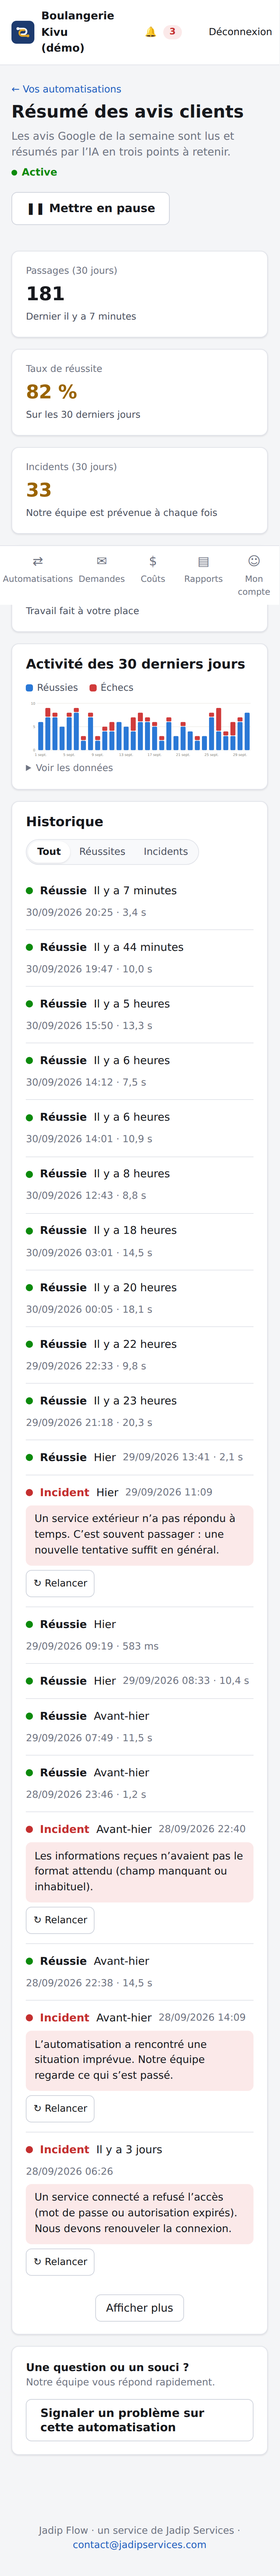
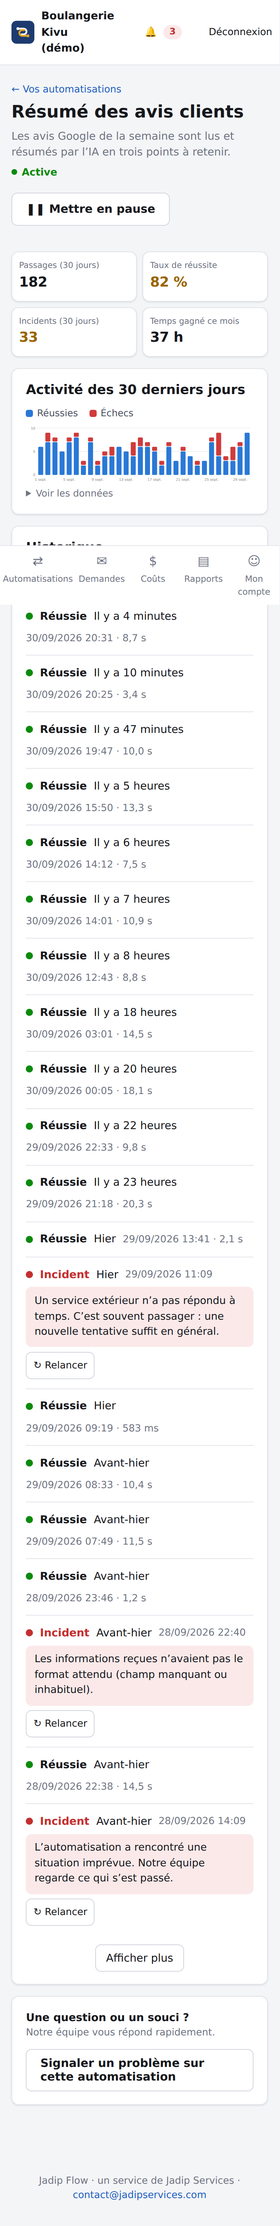
Portail client : pages finalisées, messages d'erreur en français simple pour les clients, en-tête mobile allégé
Claude-Session: https://claude.ai/code/session_01Fv2iGwrdpaSWPikixj69Pb

Changed region(s): [[0.0307, 0.0, 0.9207, 0.999], [0.6445, 0.0312, 0.8593, 0.0624]]

diff --git a/server/src/services/actions.ts b/server/src/services/actions.ts
@@ -40,7 +40,11 @@ export async function setWorkflowActive(actor: Actor, workflowId: string, active
     await logAction(actor, { clientId: wf.client_id, workflowId, action, result: 'refused', message: msg });
     throw forbidden(msg);
   };
-  if (!active && wf.is_locked) await refuse('Ce workflow est marqué critique : il ne peut pas être désactivé depuis le portail.');
+  if (!active && wf.is_locked) {
+    await refuse(actor.role === 'client'
+      ? 'Cette automatisation est gérée par Jadip Services et ne peut pas être désactivée depuis votre espace. Faites-nous une demande si besoin.'
+      : 'Ce workflow est marqué critique : il ne peut pas être désactivé depuis le portail.');
+  }
   if (actor.role === 'client') {
     if (!wf.can_toggle || !wf.client_can_toggle) await refuse('Vous n’êtes pas autorisé à modifier l’état de cette automatisation.');
   }
@@ -52,7 +56,7 @@ export async function setWorkflowActive(actor: Actor, workflowId: string, active
     else await n8n.deactivate(wf.n8n_id);
   } catch (e: any) {
     await logAction(actor, { clientId: wf.client_id, workflowId, action, result: 'error', message: e.message });
-    throw new HttpError(502, `n8n a refusé l’opération : ${e.message}`, 'n8n_error');
+    throw new HttpError(502, actor.role === 'client' ? 'L’opération n’a pas pu aboutir pour le moment. Réessayez dans quelques minutes ; notre équipe est prévenue en cas de problème persistant.' : `n8n a refusé l’opération : ${e.message}`, 'n8n_error');
   }
   await q(`UPDATE workflows SET active=$2, paused_until=$3, updated_at=now() WHERE id=$1`, [workflowId, active, active ? null : opts.pauseUntil ?? null]);
   await q(`INSERT INTO workflow_events(workflow_id, kind, detail) VALUES ($1,$2,$3)`,
@@ -83,11 +87,11 @@ export async function retryExecution(actor: Actor, executionId: number) {
     r = await clientFor(wf).retry(ex.n8n_execution_id);
   } catch (e: any) {
     await logAction(actor, { clientId: wf.client_id, workflowId: wf.id, action: 'retry', result: 'error', message: e.message });
-    throw new HttpError(502, `n8n a refusé la relance : ${e.message}`, 'n8n_error');
+    throw new HttpError(502, actor.role === 'client' ? 'La relance n’a pas pu aboutir pour le moment. Réessayez plus tard ou faites-nous une demande.' : `n8n a refusé la relance : ${e.message}`, 'n8n_error');
   }
   if (!r.supported) {
     await logAction(actor, { clientId: wf.client_id, workflowId: wf.id, action: 'retry', result: 'error', message: 'Relance non prise en charge par cette version de n8n' });
-    throw new HttpError(501, 'Cette version de n8n ne permet pas la relance via l’API. Relancez depuis n8n.', 'retry_unsupported');
+    throw new HttpError(501, actor.role === 'client' ? 'La relance automatique n’est pas disponible pour cette automatisation. Faites-nous une demande : nous la relancerons pour vous.' : 'Cette version de n8n ne permet pas la relance via l’API. Relancez depuis n8n.', 'retry_unsupported');
   }
   await logAction(actor, { clientId: wf.client_id, workflowId: wf.id, action: 'retry', result: 'ok', message: `Exécution ${ex.n8n_execution_id} relancée`, detail: { newExecutionId: r.newExecutionId } });
   await notifyClientAction(actor, wf, 'a relancé une exécution de');

diff --git a/web/src/pages/portal/shared.tsx b/web/src/pages/portal/shared.tsx
@@ -22,6 +22,16 @@ export function fmtUntil(d: string) {
   return `${day} à ${time}`;
 }
 
+/** « jusqu’à 21:34 », « jusqu’à demain 21:34 », « jusqu’au mercredi 7 octobre à 21:34 ». */
+export function untilPhrase(d: string) {
+  const day = (x: Date) => new Intl.DateTimeFormat('fr-CA', { timeZone: TZ }).format(x);
+  const date = new Date(d);
+  const time = new Intl.DateTimeFormat('fr-FR', { timeZone: TZ, hour: '2-digit', minute: '2-digit' }).format(date);
+  if (day(date) === day(new Date())) return `jusqu’à ${time}`;
+  if (day(date) === day(new Date(Date.now() + 86400000))) return `jusqu’à demain ${time}`;
+  return `jusqu’au ${fmtUntil(d)}`;
+}
+
 export const cap = (s: string) => (s ? s[0].toUpperCase() + s.slice(1) : s);
 
 export const rateTone = (r: number | null | undefined): 'good' | 'warn' | 'bad' | undefined =>
@@ -47,7 +57,7 @@ export function fmtSize(bytes: number) {
 /** Libellé de la phrase d'état (active, en pause jusqu'au…, désactivée). */
 export function stateOf(w: Pick<WfCard, 'active' | 'paused_until'>): { cls: 'on' | 'paused' | 'off'; label: string } {
   if (w.active) return { cls: 'on', label: 'Active' };
-  if (w.paused_until && new Date(w.paused_until).getTime() > Date.now()) return { cls: 'paused', label: `En pause jusqu’au ${fmtUntil(w.paused_until)}` };
+  if (w.paused_until && new Date(w.paused_until).getTime() > Date.now()) return { cls: 'paused', label: `En pause ${untilPhrase(w.paused_until)}` };
   return { cls: 'off', label: 'Désactivée' };
 }
 

diff --git a/server/src/demo.ts b/server/src/demo.ts
@@ -76,7 +76,8 @@ async function main() {
     const t = await one<any>(`INSERT INTO tickets(client_id, workflow_id, created_by, kind, subject, status) VALUES ($1,$2,$3,'change','Ajouter la quantité commandée dans le tableau','in_progress') RETURNING id`, [kivu.id, wf.id, aline.id]);
     await q(`INSERT INTO ticket_messages(ticket_id, author_id, author_role, body) VALUES ($1,$2,'client','Bonjour, pourriez-vous ajouter une colonne « quantité » dans le tableau des commandes ? Merci !')`, [t.id, aline.id]);
     await q(`INSERT INTO ticket_messages(ticket_id, author_role, body) VALUES ($1,'admin','Bien reçu, c’est prévu pour jeudi. Nous vous prévenons dès que c’est en place.')`, [t.id]);
-    await q(`INSERT INTO tickets(client_id, created_by, kind, subject) VALUES ($1,$2,'question','Peut-on recevoir les commandes aussi par SMS ?')`, [kivu.id, aline.id]);
+    const t2 = await one<any>(`INSERT INTO tickets(client_id, created_by, kind, subject) VALUES ($1,$2,'question','Peut-on recevoir les commandes aussi par SMS ?') RETURNING id`, [kivu.id, aline.id]);
+    await q(`INSERT INTO ticket_messages(ticket_id, author_id, author_role, body) VALUES ($1,$2,'client','Certains clients n’ont pas WhatsApp. Est-il possible de prendre leurs commandes par SMS ?')`, [t2.id, aline.id]);
   }
   await evaluatePeriodic();
   for (const c of [kivu, lum]) {

diff --git a/web/src/pages/portal/Home.tsx b/web/src/pages/portal/Home.tsx
@@ -30,7 +30,7 @@ export default function Home() {
                   hint={d.summary.active === d.summary.total ? 'Toutes sont en marche' : `${d.summary.total - d.summary.active} à l’arrêt`} />
                 <Stat label="Temps gagné ce mois" value={fmtDuration(d.summary.minutes_saved_month)}
                   hint={d.summary.minutes_saved_month >= 480 ? `Soit environ ${fmtNum(Math.round(d.summary.minutes_saved_month / 480))} journées de travail` : 'Temps que vous n’avez pas passé à le faire à la main'} />
-                <Stat label="Taux de réussite (30 jours)" value={fmtPct(d.summary.success_rate_30d)} tone={rateTone(d.summary.success_rate_30d)}
+                <Stat label="Réussite sur 30 jours" value={fmtPct(d.summary.success_rate_30d)} tone={rateTone(d.summary.success_rate_30d)}
                   hint={d.summary.executions_30d ? `Sur ${fmtNum(d.summary.executions_30d)} passages` : 'Aucun passage sur la période'} />
               </div>
             )}

diff --git a/web/src/components/layouts.tsx b/web/src/components/layouts.tsx
@@ -115,12 +115,12 @@ export function PortalLayout() {
         <div className="inner">
           <div className="brandmark">
             {user?.client_logo ? <img src={`/api/clients/${user.client_id}/logo`} alt={user.client_name ?? ''} /> : <img src="/brand/icon.svg" alt="" />}
-            <span>{user?.client_name ?? brand?.productName}</span>
+            <span className="brandname">{user?.client_name ?? brand?.productName}</span>
           </div>
           <nav className="portal-nav">{nav(false)}</nav>
           <span className="grow" style={{ flex: 1 }} />
           <Notifications />
-          <button className="btn ghost small" onClick={logout}>Déconnexion</button>
+          <button className="btn ghost small hide-mobile" onClick={logout}>Déconnexion</button>
         </div>
       </header>
       <main className="portal-main"><Outlet /></main>

diff --git a/server/src/routes/client/portal.ts b/server/src/routes/client/portal.ts
@@ -23,7 +23,7 @@ const STATUS_LABEL: Record<string, string> = { success: 'Réussie', error: 'Inci
 function cardOf(w: any, perms: { can_toggle: boolean; can_retry: boolean }) {
   return {
     id: w.id, name: w.display_name || w.name, description: w.description, active: w.active, paused_until: w.paused_until,
-    last_execution_at: w.last_execution_at, last_status: w.last_status ? STATUS_LABEL[w.last_status] ?? w.last_status : null,
+    last_execution_at: w.last_execution_at, last_status: w.last_status ? STATUS_LABEL[w.last_status] ?? w.last_status : null, last_status_code: w.last_status ?? null,
     success_rate_30d: w.success_rate_30d, executions_30d: w.exec_30d, failures_30d: w.fail_30d,
     minutes_saved_month: w.minutes_saved_month, locked: w.is_locked,
     can_toggle: perms.can_toggle && w.client_can_toggle && !(w.is_locked && w.active),

diff --git a/web/src/pages/Account.tsx b/web/src/pages/Account.tsx
@@ -7,14 +7,14 @@ import { Card, Modal, PageHead, useAction, useUi } from '../components/ui';
 
 export default function Account() {
   useTitle('Mon compte');
-  const { user, setUser } = useAuth();
+  const { user, setUser, logout } = useAuth();
   const { run, busy } = useAction();
   if (!user) return null;
   const isAdmin = user.role === 'admin';
   const save = (patch: Record<string, unknown>) => run(async () => setUser((await api.patch('/api/me', patch)).user), 'Préférences enregistrées.');
   return (
     <div className="stack">
-      <PageHead title="Mon compte" sub={user.email} />
+      <PageHead title="Mon compte" sub={user.email} actions={<button className="btn" onClick={logout}>Se déconnecter</button>} />
       <div className="grid cols-2">
         <Card title="Notifications">
           <div className="form">

diff --git a/web/src/styles.css b/web/src/styles.css
@@ -247,3 +247,7 @@ details.table-view summary { cursor: pointer; font-size: .82rem; color: var(--mu
 .pill-tabs button { border: 0; background: none; padding: .3rem .8rem; border-radius: 999px; font: inherit; font-size: .85rem; cursor: pointer; color: var(--text-2); }
 .pill-tabs button.active { background: var(--surface); color: var(--text); box-shadow: var(--shadow); font-weight: 600; }
 @media (max-width: 900px) { .desktop-only { display: none; } }
+
+.portal-head .brandmark { min-width: 0; }
+.portal-head .brandname { white-space: nowrap; overflow: hidden; text-overflow: ellipsis; }
+@media (max-width: 720px) { .hide-mobile { display: none !important; } .portal-head .brandname { max-width: 55vw; } }

diff --git a/web/src/pages/portal/NewTicketPage.tsx b/web/src/pages/portal/NewTicketPage.tsx
@@ -66,7 +66,7 @@ export default function NewTicketPage() {
           <div className="p-kinds" role="radiogroup">
             {KINDS.map((x) => (
               <label key={x.key} className={`p-choice ${kind === x.key ? 'sel' : ''}`}>
-                <input type="radio" name="kind" value={x.key} checked={kind === x.key} onChange={() => setKind(x.key)} />
+                <input type="radio" name="kind" value={x.key} checked={kind === x.key} onChange={() => { setKind(x.key); setError(null); }} />
                 <span className="emo" aria-hidden="true">{x.icon}</span>
                 <span><span className="ct">{x.title}</span><br /><span className="cd">{x.desc}</span></span>
               </label>

diff --git a/web/src/lib/format.ts b/web/src/lib/format.ts
@@ -52,7 +52,7 @@ export const STATUS_LABELS: Record<string, string> = {
 };
 
 export const TICKET_KIND: Record<string, string> = { change: 'Demande de modification', problem: 'Signalement de problème', question: 'Question' };
-export const TICKET_STATUS: Record<string, string> = { new: 'Nouveau', in_progress: 'En cours', waiting_client: 'En attente de réponse', done: 'Terminé', closed: 'Fermé' };
+export const TICKET_STATUS: Record<string, string> = { new: 'Nouveau', in_progress: 'En cours', waiting_client: 'En attente de réponse du client', done: 'Terminé', closed: 'Fermé' };
 
 export function currentPeriod() {
   const d = new Date();

diff --git a/web/src/pages/portal/portal.css b/web/src/pages/portal/portal.css
@@ -152,3 +152,10 @@
   .p-stats4 .stat .label { min-height: 0; }
   .p-help .btn { width: 100%; }
 }
+@media (max-width: 640px) {
+  .p-stats .stat { justify-content: space-between; }
+  .p-wf .facts .v { font-size: .95rem; }
+}
+.p-wf .state, .page-head .state { align-items: baseline; }
+.p-wf .state .dot, .page-head .state .dot { flex-shrink: 0; transform: translateY(-1px); }
+.p-wf .facts { grid-template-columns: 1.25fr 1fr 1fr; }
